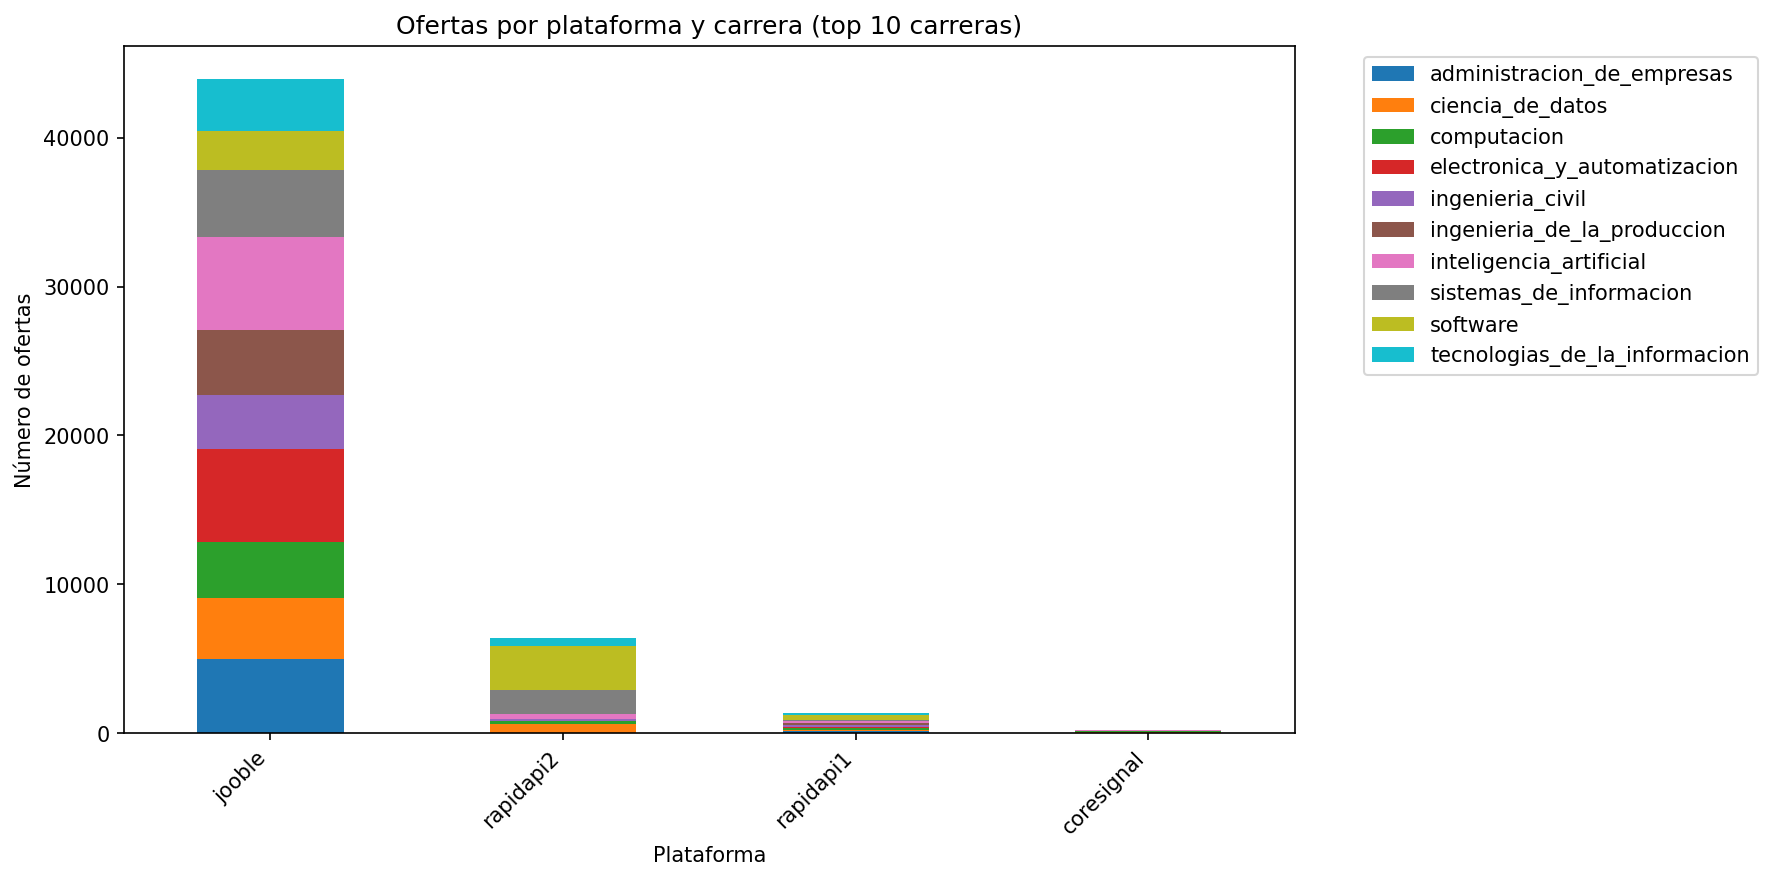
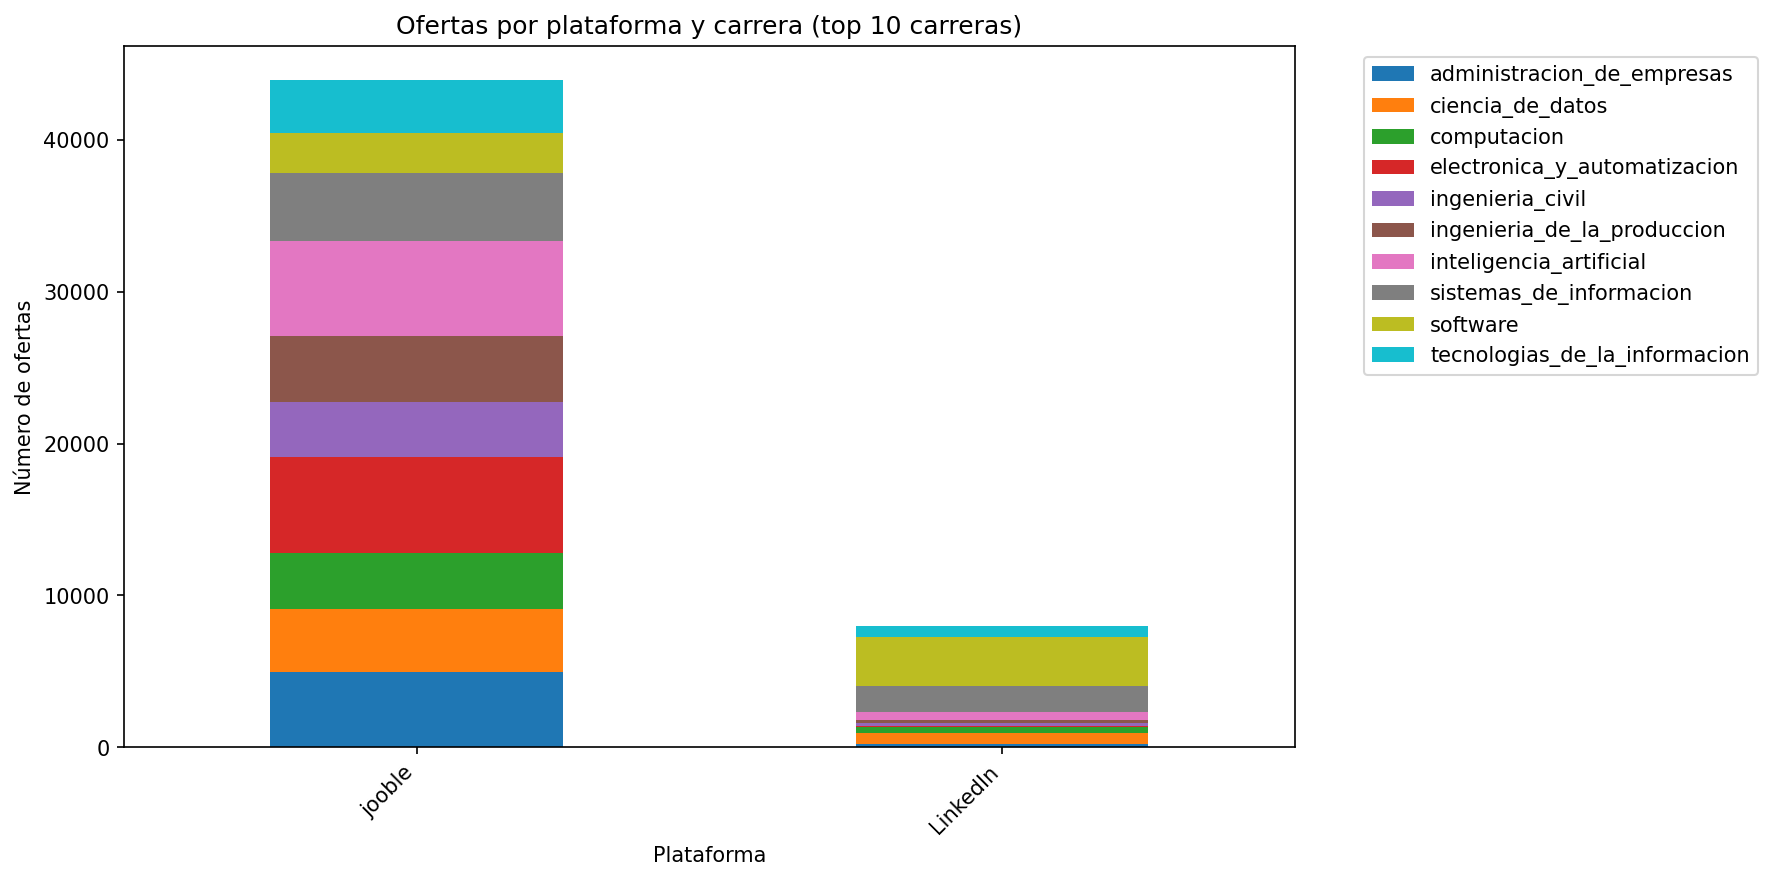
Actualizacion readme y chat_generator

diff --git a/utils/chart_generator.py b/utils/chart_generator.py
@@ -17,12 +17,18 @@ except ImportError:
 def plot_platform_vs_career(df: pd.DataFrame, outdir: str, top_n_careers: int = 10):
     """
     Genera gráfico de barras apiladas: plataformas vs carreras.
+    Agrupa RapidAPI1, RapidAPI2 y CoreSignal como LinkedIn.
     
     Args:
         df: DataFrame con columnas 'career' y 'source'
         outdir: Directorio de salida
         top_n_careers: Número de carreras top a mostrar
     """
+    # Agrupar plataformas LinkedIn
+    df = df.copy()
+    linkedin_platforms = ['rapidapi1', 'rapidapi2', 'coresignal']
+    df.loc[df['source'].isin(linkedin_platforms), 'source'] = 'LinkedIn'
+    
     # Obtener top carreras por volumen
     top_c = (df.groupby("career").size().sort_values(ascending=False)
                .head(top_n_careers).index.tolist())
@@ -57,12 +63,18 @@ def plot_platform_vs_career(df: pd.DataFrame, outdir: str, top_n_careers: int = 
 def plot_top_countries(df: pd.DataFrame, outdir: str, top_n: int = 15):
     """
     Genera gráfico de barras horizontales con top países.
+    Excluye Estados Unidos del análisis.
     
     Args:
         df: DataFrame con columna 'country'
         outdir: Directorio de salida
         top_n: Número de países top a mostrar
     """
+    # Excluir Estados Unidos
+    df = df.copy()
+    usa_variants = ['united states', 'usa', 'estados unidos', 'eeuu', 'us']
+    df = df[~df['country'].str.lower().isin(usa_variants)]
+    
     # Filtrar países válidos
     mask = (~df["country"].isin(["", "remote", "latin america"]))
     vc = df.loc[mask, "country"].value_counts().head(top_n)
@@ -566,11 +578,11 @@ def generate_all_charts(df: pd.DataFrame, outdir: str,
     # Crear directorio si no existe
     os.makedirs(outdir, exist_ok=True)
     
-    # Gráficos principales (comentados para generar solo CSV)
-    # plot_platform_vs_career(df, outdir, top_n_careers)
-    # plot_top_countries(df, outdir, top_n_countries)
-    # plot_region_share(df, outdir)
-    # plot_career_distribution(df, outdir, top_n_careers)
+    # Gráficos principales PNG
+    plot_platform_vs_career(df, outdir, top_n_careers)
+    plot_top_countries(df, outdir, top_n_countries)
+    plot_region_share(df, outdir)
+    plot_career_distribution(df, outdir, top_n_careers)
     
     # Exportar CSVs geográficos y de plataformas
     export_top_countries_csv(df, outdir)

diff --git a/README.md b/README.md
@@ -2,7 +2,7 @@
 
 [![Python](https://img.shields.io/badge/Python-3.8+-blue.svg)](https://python.org)
 [![Status](https://img.shields.io/badge/Status-Activo-green.svg)]()
-[![Plataformas](https://img.shields.io/badge/Plataformas-4-orange.svg)]()
+[![Plataformas](https://img.shields.io/badge/Plataformas-2-orange.svg)]()
 
 ## 📋 Descripción General
 
@@ -10,7 +10,7 @@ Sistema **automatizado, escalable y trazable** para la extracción masiva de ofe
 
 ### ✨ Características Principales
 
-- 🔄 **Extracción automatizada** desde 4 plataformas principales
+- 🔄 **Extracción automatizada** desde 2 plataformas principales (Jooble y LinkedIn)
 - 📊 **Esquema unificado** de datos para análisis consistente  
 - 🎯 **Clasificación por carreras** universitarias
 - 🔍 **Detección de habilidades blandas** basada en EURACE
@@ -193,7 +193,10 @@ reportes/
 - Contiene visualizaciones (PNG) y mapas interactivos (HTML)
 - Tablas de análisis estadístico en formato CSV
 - Contenido para generación de reportes con Quarto
-- **Nota**: Los reportes Quarto excluyen datos de Estados Unidos para enfocarse en contextos regionales más relevantes
+- **Notas importantes**:
+  - **Plataformas agrupadas**: LinkedIn consolida RapidAPI1, RapidAPI2 y CoreSignal
+  - **Exclusión geográfica**: Estados Unidos se excluye del TOP países para enfoque regional
+  - Los reportes Quarto aplican estos mismos filtros para consistencia en análisis
 
 #### 📋 **logs/** - Registro de Extracciones
 Mantiene el historial de extracciones por plataforma:
@@ -234,12 +237,12 @@ Lista completa de dependencias del proyecto:
 ### **Fase 1: Configuración y Extracción**
 
 #### 🎯 **Plataformas Soportadas**
-| Plataforma | API | Descripción | Estado |
-|------------|-----|-------------|--------|
+| Plataforma | APIs Utilizadas | Descripción | Estado |
+|------------|----------------|-------------|--------|
 | **Jooble** | Jooble API | Portal global de empleos | ✅ Activo |
-| **JSSearch** | RapidAPI | Búsqueda agregada de empleos | ✅ Activo |
-| **LinkedIn** | RapidAPI | Red profesional LinkedIn | ✅ Activo |
-| **Coresignal** | Coresignal API | Datos profesionales especializados | ✅ Activo |
+| **LinkedIn** | RapidAPI 1, RapidAPI 2, CoreSignal | Datos profesionales de LinkedIn (agrupados) | ✅ Activo |
+
+**Nota sobre LinkedIn**: Los datos de LinkedIn provienen de 3 fuentes diferentes (RapidAPI JSSearch, RapidAPI LinkedIn, CoreSignal) que se **agrupan como una sola plataforma** en los análisis y reportes finales para representar el ecosistema completo de LinkedIn.
 
 #### 📋 **Carreras Configuradas** (24 carreras)
 - Administración de Empresas, Agroindustria, Ciencia de Datos
@@ -298,9 +301,11 @@ flowchart TD
 
 Los **datos crudos** provienen de los módulos de extracción (`extractors/`) que consultan las APIs:
 - `jooble_api.py` → `data/outputs/jooble/[Carrera]/`
-- `rapidapi_api_1.py` → `data/outputs/rapidapi1/[Carrera]/`
-- `rapidapi_api_2.py` → `data/outputs/rapidapi2/[Carrera]/`
-- `coresignal_api.py` → `data/outputs/coresignal/[Carrera]/`
+- `rapidapi_api_1.py` → `data/outputs/rapidapi1/[Carrera]/` (LinkedIn - JSSearch)
+- `rapidapi_api_2.py` → `data/outputs/rapidapi2/[Carrera]/` (LinkedIn - RapidAPI)
+- `coresignal_api.py` → `data/outputs/coresignal/[Carrera]/` (LinkedIn - CoreSignal)
+
+**📊 Agrupación en Análisis**: Las tres fuentes de LinkedIn (rapidapi1, rapidapi2, coresignal) se **consolidan como una sola plataforma "LinkedIn"** en los reportes y visualizaciones finales.
 
 Estos archivos CSV contienen datos sin procesar con:
 - Descripciones en idioma original (mayormente inglés)
@@ -384,8 +389,9 @@ Antes del pipeline de procesamiento, `file_manager.py` consolida los datos:
 - **Función**: Crea visualizaciones y estadísticas finales
 - **Outputs generados**:
   - 📊 Distribución por carreras (TOP 10)
-  - 🌍 Análisis geográfico por países (TOP 15)  
+  - 🌍 Análisis geográfico por países (TOP 15, **excluye Estados Unidos**)  
   - 💼 Habilidades más demandadas
+  - 📊 Comparativa de plataformas (LinkedIn agrupa rapidapi1, rapidapi2, coresignal)
   - 📈 Tendencias temporales
   - 📋 Estadísticas descriptivas
 - **Formatos**: PNG (gráficos) + CSV (datos tabulares)
@@ -560,7 +566,10 @@ python utils/representations.py
   - 📋 Estadísticas descriptivas
 - **Formatos**: PNG (gráficos) + CSV (datos tabulares)
 - **Ubicación**: `data/outputs/reportes/`
-- **⚠ Nota importante**: Para reportes Quarto se excluyen datos de Estados Unidos del análisis para enfocarse en mercados más relevantes para el contexto del estudio
+- **⚠ Notas importantes**: 
+  - Las plataformas RapidAPI1, RapidAPI2 y CoreSignal se agrupan como **LinkedIn** en visualizaciones y reportes
+  - **Estados Unidos se excluye** del análisis de TOP países para enfocarse en mercados regionales más relevantes
+  - Los reportes Quarto aplican estos mismos filtros para consistencia
 
 ---
 
@@ -655,7 +664,8 @@ quarto preview data\outputs\reportes\Quarto_View\ReporteQuarto.qmd --no-browser 
 
 #### **Características del Reporte Quarto**
 
-- ✅ **Datos filtrados**: Excluye Estados Unidos para enfoque regional
+- ✅ **Datos filtrados**: Excluye Estados Unidos del TOP países para enfoque en mercados regionales
+- 🔗 **Plataformas agrupadas**: LinkedIn consolida datos de RapidAPI1, RapidAPI2 y CoreSignal
 - 📊 **Tablas interactivas**: Datos ordenables y filtrables
 - 📈 **Gráficos dinámicos**: Visualizaciones con ggplot2 o plotly
 - 🗺 **Mapas embebidos**: Integración de visualizaciones geográficas
